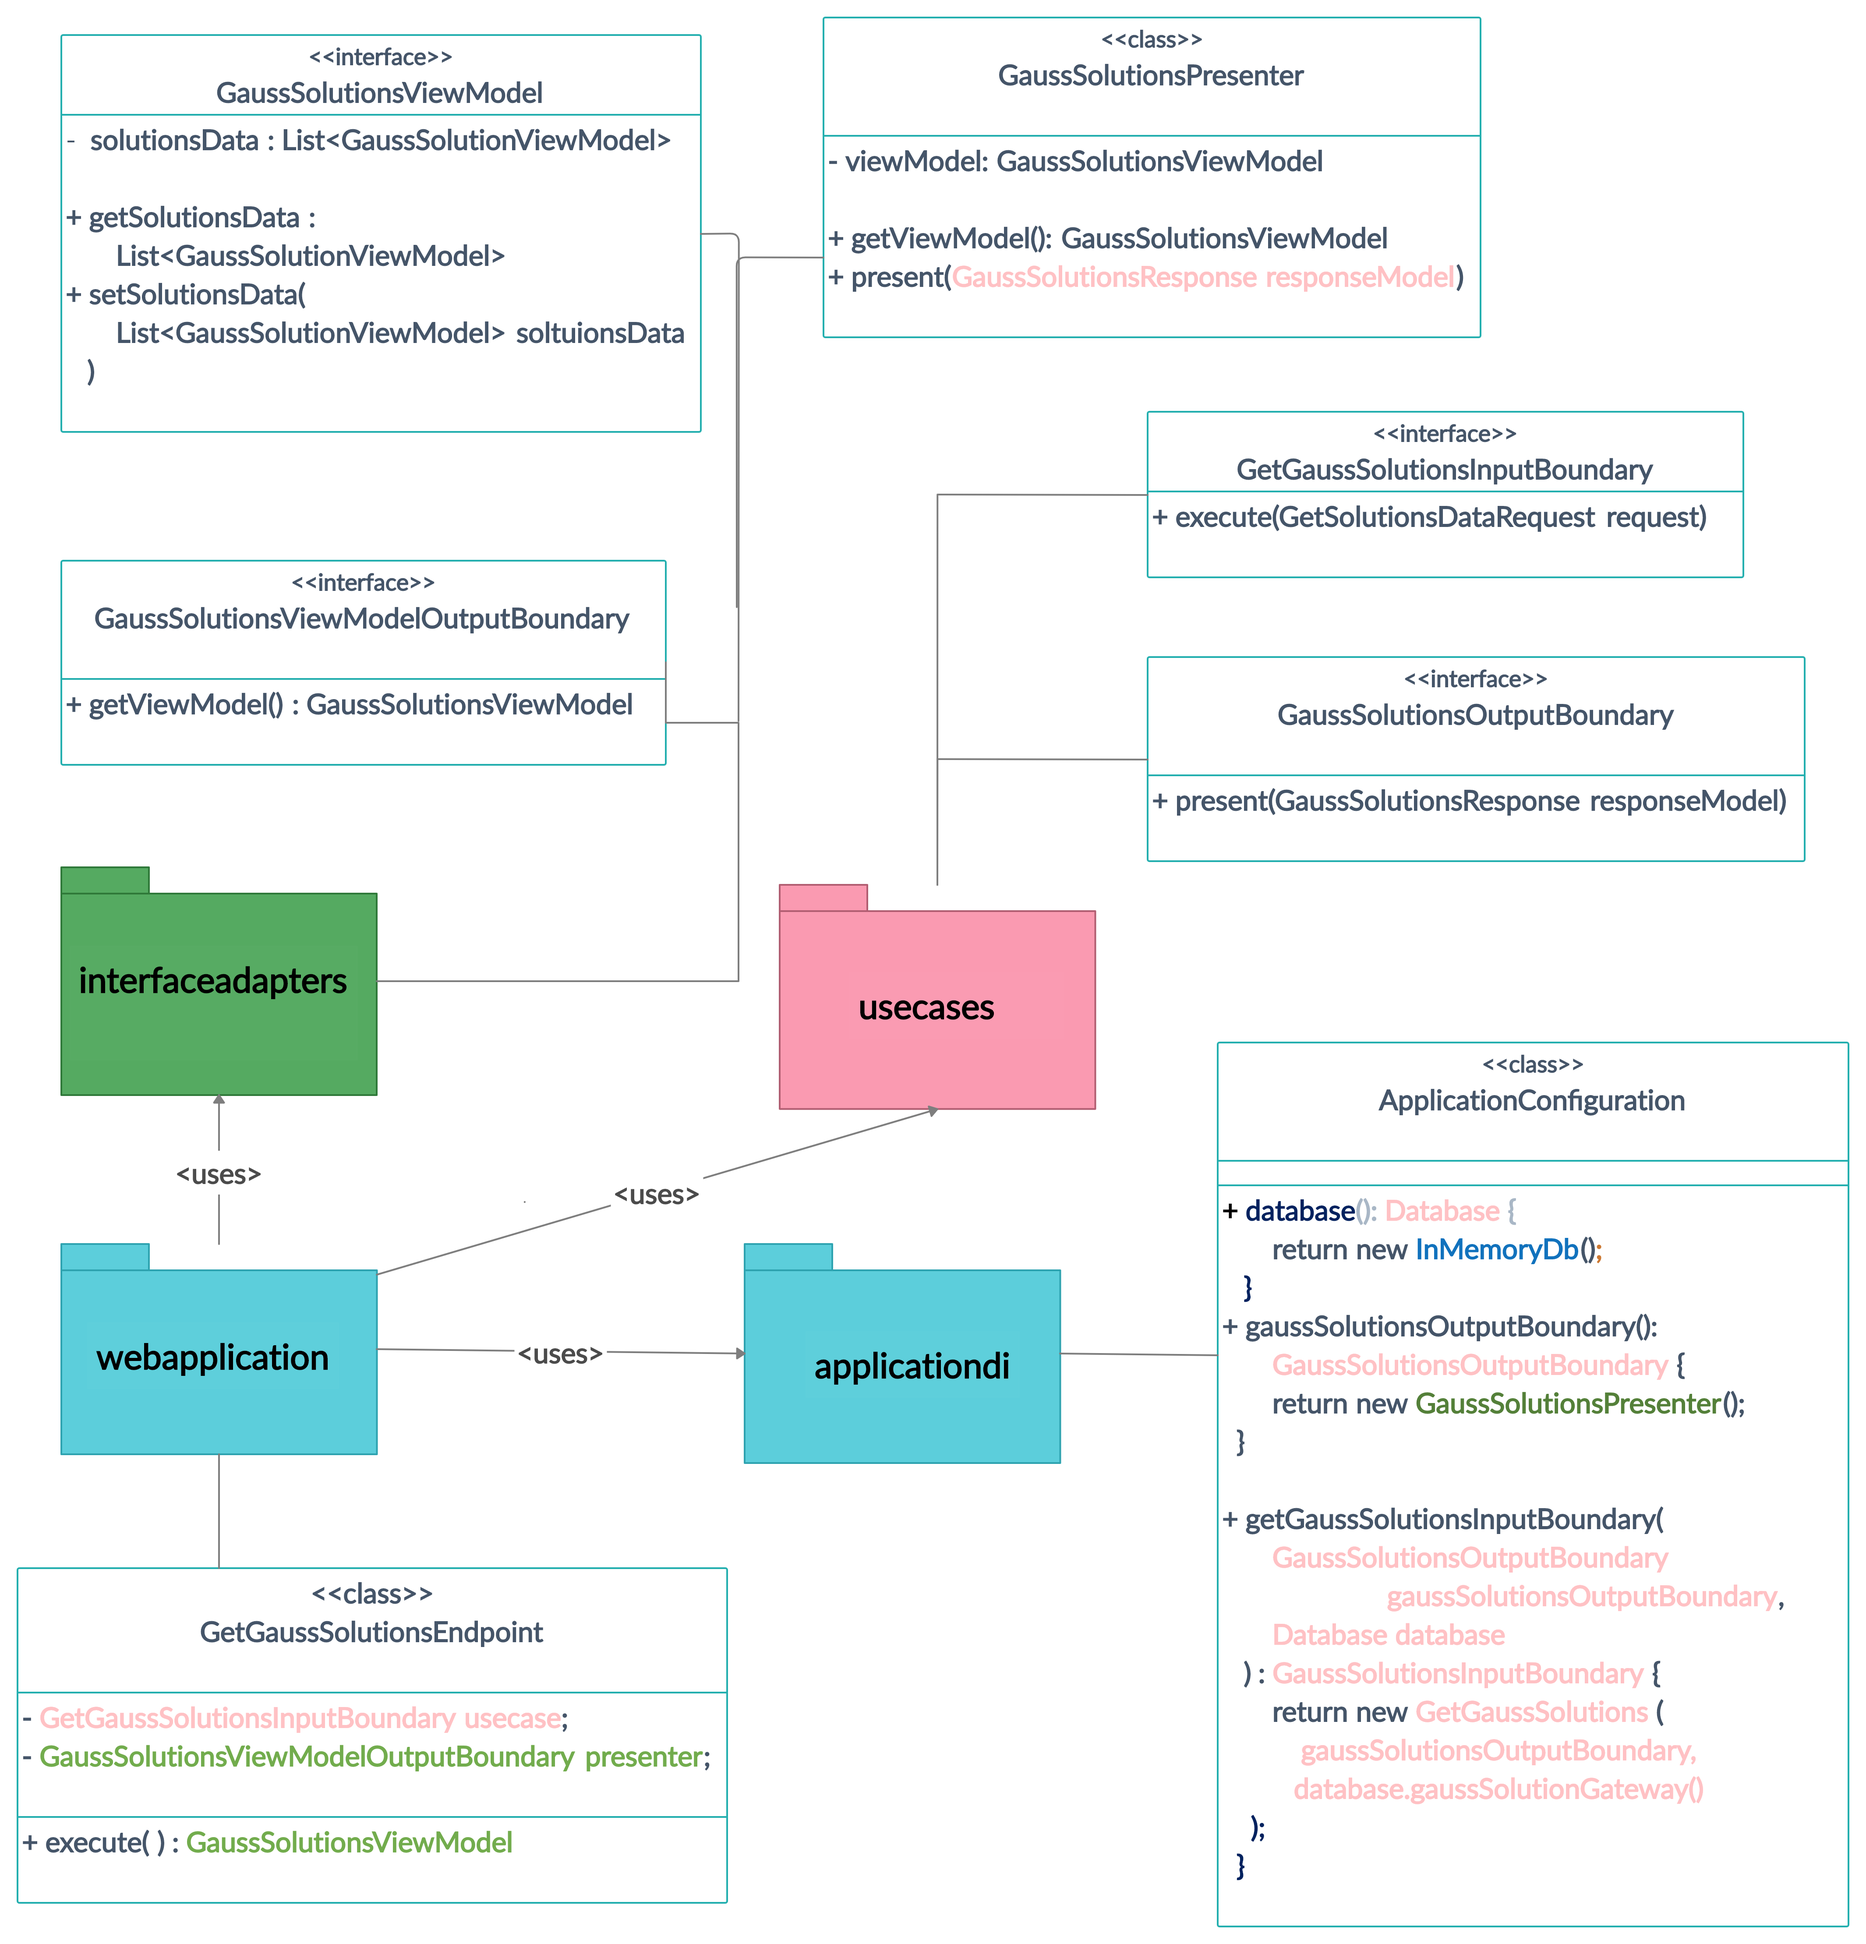
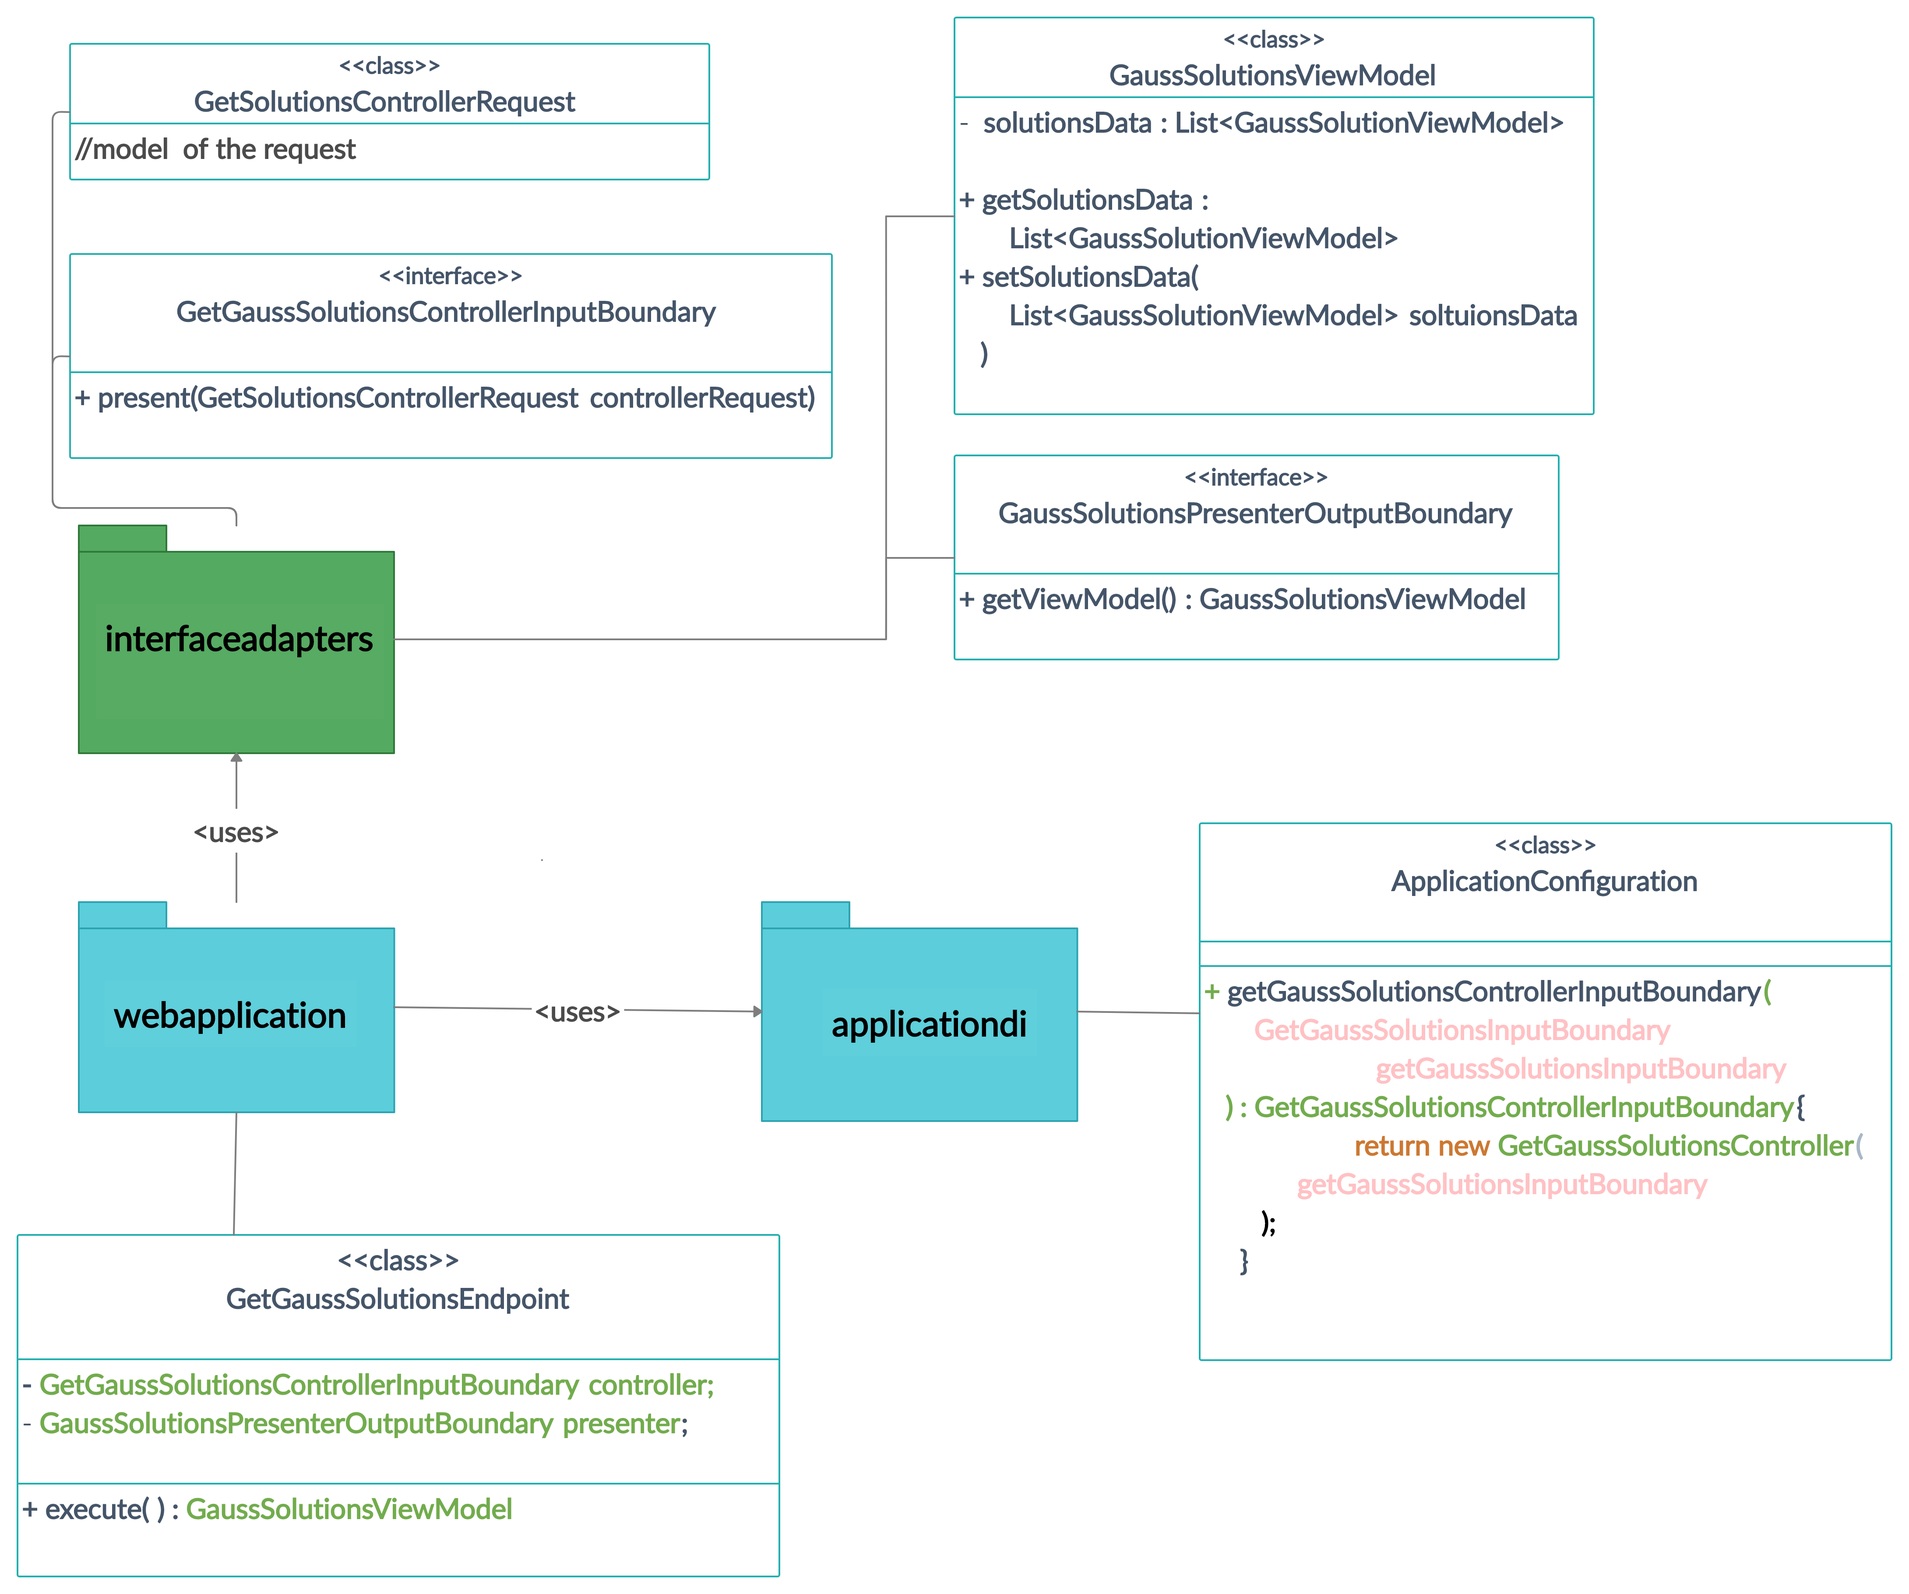
changing readme and bordersinterface name

diff --git a/webapplication/src/test/java/com/akondi/webapplication/EndpointTests.java b/webapplication/src/test/java/com/akondi/webapplication/EndpointTests.java
@@ -1,7 +1,7 @@
 package com.akondi.webapplication;
 
-import com.akondi.interfaceadapters.presenters.gausssolve.GaussSolutionsViewModelOutputBoundary;
-import com.akondi.interfaceadapters.presenters.getgausssolutions.GaussSolveViewModelOutputBoundary;
+import com.akondi.interfaceadapters.presenters.gausssolve.GaussSolutionsPresenterOutputBoundary;
+import com.akondi.interfaceadapters.presenters.getgausssolutions.GaussSolvePresenterOutputBoundary;
 import com.akondi.interfaceadapters.viewmodels.GaussSolutionViewModel;
 import com.akondi.interfaceadapters.viewmodels.GaussSolutionsViewModel;
 import com.akondi.interfaceadapters.viewmodels.GaussSolveViewModel;
@@ -65,13 +65,13 @@ public class EndpointTests {
     @MockBean
     private GaussSolveInputBoundary gaussSolveInputBoundary;
     @MockBean
-    private GaussSolveViewModelOutputBoundary gaussSolveViewModelOutputBoundary;
+    private GaussSolvePresenterOutputBoundary gaussSolvePresenterOutputBoundary;
     @MockBean
     private Database database;
     @MockBean
     private GetGaussSolutionsInputBoundary getGaussSolutionsInputBoundary;
     @MockBean
-    private GaussSolutionsViewModelOutputBoundary gaussSolutionsViewModelOutputBoundary;
+    private GaussSolutionsPresenterOutputBoundary gaussSolutionsPresenterOutputBoundary;
     @MockBean
     private Clock clock;
     @MockBean
@@ -97,7 +97,7 @@ public class EndpointTests {
     @Test
     public void can_solve_linear_equations() throws Exception {
         NewGaussSolveRequest request = new NewGaussSolveRequest(a, b);
-        when(gaussSolveViewModelOutputBoundary.getViewModel()).thenReturn(new GaussSolveViewModel(solution));
+        when(gaussSolvePresenterOutputBoundary.getViewModel()).thenReturn(new GaussSolveViewModel(solution));
         mockMvc.perform(
                 post(URI.create("/api/v1/gausssolver"))
                         .contentType(MediaType.APPLICATION_JSON_UTF8_VALUE)
@@ -143,7 +143,7 @@ public class EndpointTests {
         solutionList.add(gaussSolutionViewModel);
         GaussSolutionsViewModel gaussSolutionsViewModel = new GaussSolutionsViewModel(solutionList);
 
-        when(gaussSolutionsViewModelOutputBoundary.getViewModel()).thenReturn(gaussSolutionsViewModel);
+        when(gaussSolutionsPresenterOutputBoundary.getViewModel()).thenReturn(gaussSolutionsViewModel);
         mockMvc.perform(
                 get("/api/v1/gausssolver")
         )

diff --git a/applicationdi/src/main/java/com/akondi/applicationdi/ApplicationConfiguration.java b/applicationdi/src/main/java/com/akondi/applicationdi/ApplicationConfiguration.java
@@ -26,7 +26,7 @@ import java.time.LocalDate;
 public class ApplicationConfiguration {
     @Bean
     public Database database() {
-                return new InMemoryDb();
+        return new InMemoryDb();
     }
 
     @Bean
@@ -45,7 +45,6 @@ public class ApplicationConfiguration {
     }
 
 
-
     @Bean
     public GaussSolutionsOutputBoundary gaussSolutionsOutputBoundary() {
         return new GaussSolutionsPresenter();
@@ -57,12 +56,12 @@ public class ApplicationConfiguration {
     }
 
     @Bean
-    public GetGaussSolutionsControllerInputBoundary getGaussSolutionsControllerInputBoundary(GetGaussSolutionsInputBoundary getGaussSolutionsInputBoundary){
+    public GetGaussSolutionsControllerInputBoundary getGaussSolutionsControllerInputBoundary(GetGaussSolutionsInputBoundary getGaussSolutionsInputBoundary) {
         return new GetGaussSolutionsController(getGaussSolutionsInputBoundary);
     }
 
 //    @Bean
-//    public GaussSolutionsViewModelOutputBoundary gaussSolutionsViewModelOutputBoundary(GaussSolutionsOutputBoundary gaussSolutionsOutputBoundary) {
+//    public GaussSolutionsPresenterOutputBoundary gaussSolutionsViewModelOutputBoundary(GaussSolutionsOutputBoundary gaussSolutionsOutputBoundary) {
 //        return (GaussSolutionsPresenter) gaussSolutionsOutputBoundary();
 //    }
 
@@ -82,7 +81,7 @@ public class ApplicationConfiguration {
     }
 //
 //    @Bean
-//    public GaussSolveViewModelOutputBoundary gaussSolveViewModelOutputBoundary(GaussSolveOutputBoundary gaussSolveOutputBoundary) {
+//    public GaussSolvePresenterOutputBoundary gaussSolveViewModelOutputBoundary(GaussSolveOutputBoundary gaussSolveOutputBoundary) {
 //        return (GaussSolvePresenter) gaussSolveOutputBoundary();
 //    }
 }

diff --git a/webapplication/src/main/java/com/akondi/webapplication/endpoints/getsolutions/GetGaussSolutionsEndpoint.java b/webapplication/src/main/java/com/akondi/webapplication/endpoints/getsolutions/GetGaussSolutionsEndpoint.java
@@ -2,7 +2,7 @@ package com.akondi.webapplication.endpoints.getsolutions;
 
 import com.akondi.interfaceadapters.controllers.getgausssolutions.GetGaussSolutionsControllerInputBoundary;
 import com.akondi.interfaceadapters.controllers.getgausssolutions.GetSolutionsControllerRequest;
-import com.akondi.interfaceadapters.presenters.gausssolve.GaussSolutionsViewModelOutputBoundary;
+import com.akondi.interfaceadapters.presenters.gausssolve.GaussSolutionsPresenterOutputBoundary;
 import com.akondi.interfaceadapters.viewmodels.GaussSolutionsViewModel;
 import com.akondi.webapplication.endpoints.BaseEndpoint;
 import io.swagger.annotations.ApiOperation;
@@ -16,11 +16,11 @@ import org.springframework.web.bind.annotation.RestController;
 public class GetGaussSolutionsEndpoint implements BaseEndpoint {
 
     private final GetGaussSolutionsControllerInputBoundary controller;
-    private final GaussSolutionsViewModelOutputBoundary presenter;
+    private final GaussSolutionsPresenterOutputBoundary presenter;
 
     public GetGaussSolutionsEndpoint(
             GetGaussSolutionsControllerInputBoundary controller,
-            GaussSolutionsViewModelOutputBoundary presenter) {
+            GaussSolutionsPresenterOutputBoundary presenter) {
         this.controller = controller;
         this.presenter = presenter;
     }

diff --git a/webapplication/src/main/java/com/akondi/webapplication/endpoints/gausssolve/GaussSolveEndPoint.java b/webapplication/src/main/java/com/akondi/webapplication/endpoints/gausssolve/GaussSolveEndPoint.java
@@ -2,7 +2,7 @@ package com.akondi.webapplication.endpoints.gausssolve;
 
 import com.akondi.interfaceadapters.controllers.gausssolve.GaussSolveControllerInputBoundary;
 import com.akondi.interfaceadapters.controllers.gausssolve.GaussSolveControllerRequest;
-import com.akondi.interfaceadapters.presenters.getgausssolutions.GaussSolveViewModelOutputBoundary;
+import com.akondi.interfaceadapters.presenters.getgausssolutions.GaussSolvePresenterOutputBoundary;
 import com.akondi.interfaceadapters.viewmodels.GaussSolveViewModel;
 import com.akondi.webapplication.endpoints.BaseEndpoint;
 import io.swagger.annotations.ApiOperation;
@@ -17,11 +17,11 @@ import javax.validation.Valid;
 @RestController
 public class GaussSolveEndPoint implements BaseEndpoint {
     private final GaussSolveControllerInputBoundary controller;
-    private final GaussSolveViewModelOutputBoundary presenter;
+    private final GaussSolvePresenterOutputBoundary presenter;
 
     public GaussSolveEndPoint(
             GaussSolveControllerInputBoundary controller,
-            GaussSolveViewModelOutputBoundary presenter) {
+            GaussSolvePresenterOutputBoundary presenter) {
         this.controller = controller;
         this.presenter = presenter;
     }

diff --git a/interfaceadapters/src/main/java/com/akondi/interfaceadapters/presenters/getgausssolutions/GaussSolvePresenter.java b/interfaceadapters/src/main/java/com/akondi/interfaceadapters/presenters/getgausssolutions/GaussSolvePresenter.java
@@ -4,7 +4,7 @@ import com.akondi.interfaceadapters.viewmodels.GaussSolveViewModel;
 import com.akondi.usecases.gausssolve.GaussSolveOutputBoundary;
 import com.akondi.usecases.gausssolve.GaussSolveResponse;
 
-public class GaussSolvePresenter implements GaussSolveOutputBoundary, GaussSolveViewModelOutputBoundary {
+public class GaussSolvePresenter implements GaussSolveOutputBoundary, GaussSolvePresenterOutputBoundary {
     private GaussSolveViewModel viewModel;
 
     @Override

diff --git a/interfaceadapters/src/main/java/com/akondi/interfaceadapters/presenters/gausssolve/GaussSolutionsPresenter.java b/interfaceadapters/src/main/java/com/akondi/interfaceadapters/presenters/gausssolve/GaussSolutionsPresenter.java
@@ -6,7 +6,7 @@ import com.akondi.interfaceadapters.viewmodels.GaussSolutionsViewModel;
 import com.akondi.usecases.get.gausssolutions.GaussSolutionsOutputBoundary;
 
 public class GaussSolutionsPresenter extends BaseGaussSolutionPresenter
-        implements GaussSolutionsOutputBoundary, GaussSolutionsViewModelOutputBoundary {
+        implements GaussSolutionsOutputBoundary, GaussSolutionsPresenterOutputBoundary {
 
     private GaussSolutionsViewModel viewModel;
 

diff --git a/interfaceadapters/src/main/java/com/akondi/interfaceadapters/presenters/gausssolve/GaussSolutionsPresenterOutputBoundary.java b/interfaceadapters/src/main/java/com/akondi/interfaceadapters/presenters/gausssolve/GaussSolutionsPresenterOutputBoundary.java
@@ -2,6 +2,6 @@ package com.akondi.interfaceadapters.presenters.gausssolve;
 
 import com.akondi.interfaceadapters.viewmodels.GaussSolutionsViewModel;
 
-public interface GaussSolutionsViewModelOutputBoundary {
+public interface GaussSolutionsPresenterOutputBoundary {
     GaussSolutionsViewModel getViewModel();
 }

diff --git a/interfaceadapters/src/main/java/com/akondi/interfaceadapters/presenters/getgausssolutions/GaussSolvePresenterOutputBoundary.java b/interfaceadapters/src/main/java/com/akondi/interfaceadapters/presenters/getgausssolutions/GaussSolvePresenterOutputBoundary.java
@@ -2,6 +2,6 @@ package com.akondi.interfaceadapters.presenters.getgausssolutions;
 
 import com.akondi.interfaceadapters.viewmodels.GaussSolveViewModel;
 
-public interface GaussSolveViewModelOutputBoundary {
+public interface GaussSolvePresenterOutputBoundary {
     GaussSolveViewModel getViewModel();
 }

diff --git a/README.md b/README.md
@@ -19,13 +19,20 @@ Clean Architecture main directory contains all the modules which realize the wor
 
 <img src="https://github.com/rildikondi/CleanArchitectureSpring/blob/clean_architecture_by_layer/images/main_module_schema.jpg" >
 
+Dependency direction of the modules from the outermost to the center. Outside layer depends on the layer below it.
+<br>The inner layer has no dependency on the layer above and no information for any class or method from it.
+<br>Changes on the outer layer should not cause changes to the inner layer it.
+
+<img src="https://github.com/rildikondi/CleanArchitectureSpring/blob/clean_architecture_by_layer/images/dependency_direction.jpg" >
+
+
 
 <b>applicationdi</b> module uses <b>inmemorydb, usecases, interfaceadpters</b> modules to inject the dependencies that are needed in this application.
 
 <img src="https://github.com/rildikondi/CleanArchitectureSpring/blob/clean_architecture_by_layer/images/applicationdi_schema.jpg" >
 
 <b>Webapplication</b> module is part of <b>framework and drivers layer</b>. Framework and drivers layer is the outermost layer.
-<b>webapplication</b> module depends on layers below it such as <b>interface adapters and usecases</b>.
+<b>webapplication</b> module depends on the layer below it: <b>interface adapters</b>.
 <b>webapplication</b> module uses <b>spring framework</b>. The endpoints which are in this layer with help of spring annotations build together
 the entrypoints for the input.
 Example schema of one case of Gauss elimination for linear equations with Clean Architecture.
